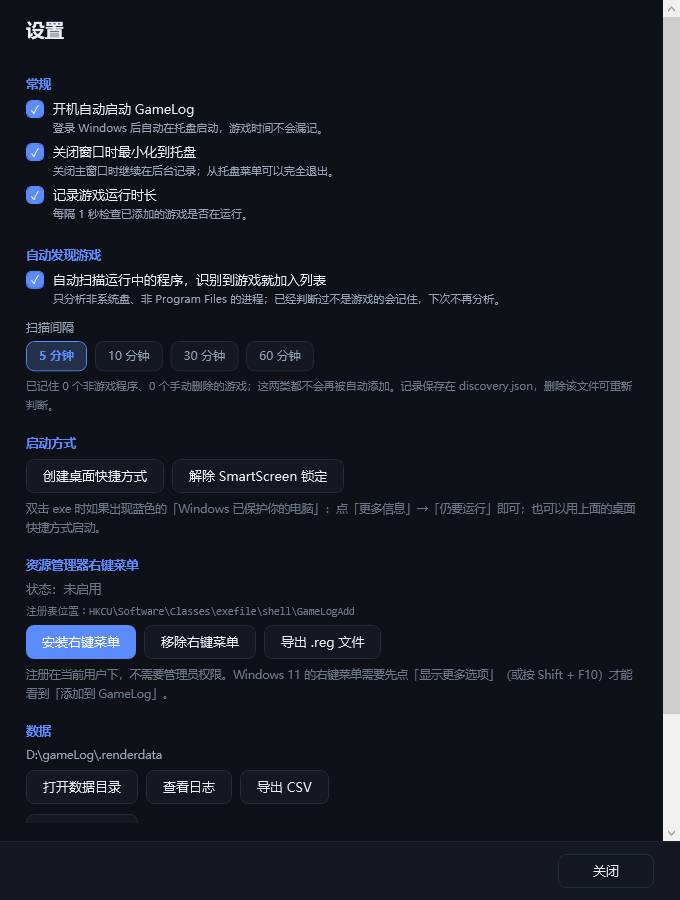
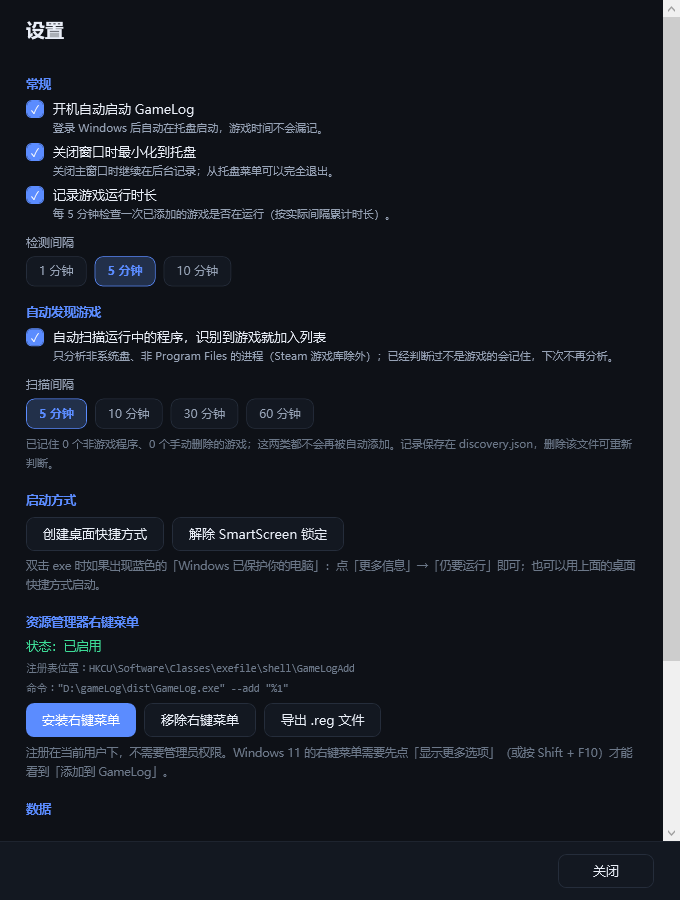
feat: check running games every 5 minutes instead of every second
- new setting MonitorSeconds (1/5/10 min, default 5); status bar shows the interval
- elapsed time still uses the real delta between checks, so no drift
- flush the partial interval on exit so quitting does not lose up to 5 minutes
- UI keeps refreshing every second on its own timer

diff --git a/src/Monitor.cs b/src/Monitor.cs
@@ -29,7 +29,40 @@ namespace GameLog
         {
             if (timer != null) return;
             lastTick = DateTime.UtcNow;
-            timer = new Timer(Tick, null, 700, 1000);
+            int seconds = IntervalSeconds;
+            // 2 秒后先跑一次，把已经在运行的游戏尽快统计进来；之后按设置的间隔
+            timer = new Timer(Tick, null, 2000, seconds * 1000);
+            Log.Info("监控已启动：每 " + seconds + " 秒检测一次");
+        }
+
+        public void Restart()
+        {
+            Stop();
+            Start();
+        }
+
+        public int IntervalSeconds
+        {
+            get
+            {
+                int s = store.Settings.MonitorSeconds;
+                if (s < 30) s = 300;
+                if (s > 3600) s = 3600;
+                return s;
+            }
+        }
+
+        public string IntervalLabel
+        {
+            get
+            {
+                int s = IntervalSeconds;
+                if (s < 60) return "每 " + s + " 秒";
+                int m = s / 60;
+                if (m < 60) return m == 1 ? "每 1 分钟" : "每 " + m + " 分钟";
+                int h = s / 3600;
+                return "每 " + h + " 小时";
+            }
         }
 
         public void Stop()
@@ -37,6 +70,8 @@ namespace GameLog
             if (timer == null) return;
             timer.Dispose();
             timer = null;
+            try { FlushPartial(); }
+            catch (Exception ex) { Log.Warn("退出前补记时长失败：" + ex.Message); }
             lock (gate) { runningIds.Clear(); sessionStart.Clear(); }
         }
 
@@ -91,7 +126,7 @@ namespace GameLog
                     return;
                 }
 
-                if (delta > 20) delta = 2; // 休眠/唤醒后避免把睡眠时间算作游戏时间
+                if (delta > IntervalSeconds * 3) delta = IntervalSeconds; // 休眠/唤醒后避免把睡眠时间算作游戏时间
 
                 HashSet<string> procs = RunningProcessNames();
                 var stillRunning = new HashSet<string>();
@@ -141,6 +176,31 @@ namespace GameLog
             catch (Exception ex)
             {
                 Log.Error("监控异常", ex);
+            }
+        }
+
+        /// <summary>退出/暂停前，把最后一次检测到现在的零头补记上，避免丢掉最多一个间隔的时长。</summary>
+        void FlushPartial()
+        {
+            double delta;
+            lock (gate) { delta = (DateTime.UtcNow - lastTick).TotalSeconds; lastTick = DateTime.UtcNow; }
+            if (delta <= 0) return;
+            if (delta > IntervalSeconds * 2) return;
+            bool any = false;
+            lock (gate)
+            {
+                if (runningIds.Count == 0) return;
+                foreach (var g in store.Snapshot())
+                {
+                    if (g == null || !runningIds.Contains(g.Id)) continue;
+                    g.AddSeconds(delta, DateTime.Now);
+                    any = true;
+                }
+            }
+            if (any)
+            {
+                store.Save();
+                Log.Info("退出前补记 " + delta.ToString("0") + " 秒");
             }
         }
 

diff --git a/src/SettingsWindow.cs b/src/SettingsWindow.cs
@@ -62,7 +62,38 @@ namespace GameLog
             var record = Ui.Check("记录游戏运行时长", store.Settings.MonitorEnabled, null);
             record.Checked += delegate { SetMonitorEnabled(true); };
             record.Unchecked += delegate { SetMonitorEnabled(false); };
-            root.Children.Add(Row(record, "每隔 1 秒检查已添加的游戏是否在运行。"));
+            root.Children.Add(Row(record, "每 5 分钟检查一次已添加的游戏是否在运行（按实际间隔累计时长）。"));
+
+            var monitorLabel = Ui.TxtBlock("检测间隔", 12, Ui.Sub);
+            monitorLabel.Margin = new Thickness(0, 6, 0, 6);
+            root.Children.Add(monitorLabel);
+
+            var monitorRow = new StackPanel();
+            monitorRow.Orientation = Orientation.Horizontal;
+            var monitorButtons = new List<Border>();
+            int[] monitorMinutes = { 1, 5, 10 };
+            foreach (int m in monitorMinutes)
+            {
+                var pill = new Border();
+                pill.CornerRadius = new CornerRadius(8);
+                pill.Padding = new Thickness(12, 6, 12, 7);
+                pill.Margin = new Thickness(0, 0, 8, 0);
+                pill.Cursor = Cursors.Hand;
+                var t = Ui.TxtBlock(m + " 分钟", 12, Ui.Sub);
+                pill.Child = t;
+                int value = m;
+                pill.MouseLeftButtonUp += delegate
+                {
+                    store.Settings.MonitorSeconds = value * 60;
+                    store.SaveSettings();
+                    app.RestartMonitor();
+                    UpdateIntervalPills(monitorButtons, monitorMinutes, store.Settings.MonitorSeconds / 60);
+                };
+                monitorButtons.Add(pill);
+                monitorRow.Children.Add(pill);
+            }
+            UpdateIntervalPills(monitorButtons, monitorMinutes, store.Settings.MonitorSeconds / 60);
+            root.Children.Add(monitorRow);
 
             root.Children.Add(SectionTitle("自动发现游戏"));
             var autoDetect = Ui.Check("自动扫描运行中的程序，识别到游戏就加入列表", store.Settings.AutoDetect, null);

diff --git a/src/MainWindow.cs b/src/MainWindow.cs
@@ -33,6 +33,7 @@ namespace GameLog
         Border toast;
         TextBlock toastText;
         DispatcherTimer toastTimer;
+        DispatcherTimer liveTimer;
         Border menuBanner;
         Border dropHint;
         readonly List<KeyValuePair<string, Border>> sortButtons = new List<KeyValuePair<string, Border>>();
@@ -74,6 +75,12 @@ namespace GameLog
             {
                 Dispatcher.BeginInvoke(new Action(UpdateLive));
             };
+
+            // 界面自己每秒刷新一次（监控本身可能是 5 分钟一次，界面不能跟着卡住）
+            liveTimer = new DispatcherTimer();
+            liveTimer.Interval = TimeSpan.FromSeconds(1);
+            liveTimer.Tick += delegate { UpdateLive(); };
+            liveTimer.Start();
 
             Loaded += delegate
             {
@@ -845,9 +852,10 @@ namespace GameLog
 
             if (statusLeft != null)
             {
+                string label = monitor != null ? monitor.IntervalLabel : "每 5 分钟";
                 statusLeft.Text = paused
                     ? "● 已暂停记录 · " + games.Count + " 款游戏已加入监控"
-                    : "● 正在记录 · 每秒检测 " + games.Count + " 款游戏的运行状态";
+                    : "● 正在记录 · " + label + "检测 " + games.Count + " 款游戏的运行状态";
                 statusLeft.Foreground = paused ? Ui.Dim : Ui.Sub;
             }
 

diff --git a/src/Models.cs b/src/Models.cs
@@ -87,6 +87,8 @@ namespace GameLog
         public int AutoDetectMaxPerRun { get; set; }
         /// <summary>主界面布局：cards（卡片）或 list（列表）。</summary>
         public string Layout { get; set; }
+        /// <summary>记录游戏时长的检测间隔（秒）。</summary>
+        public int MonitorSeconds { get; set; }
 
         public Settings()
         {
@@ -98,6 +100,7 @@ namespace GameLog
             AutoDetectMinutes = 5;
             AutoDetectMaxPerRun = 3;
             Layout = "cards";
+            MonitorSeconds = 300;
         }
     }
 

diff --git a/src/Store.cs b/src/Store.cs
@@ -86,6 +86,7 @@ namespace GameLog
                             if (s.TickMs < 1000 || s.TickMs > 30000) s.TickMs = 2000;
                             if (string.IsNullOrEmpty(s.SortMode)) s.SortMode = "recent";
                             if (string.IsNullOrEmpty(s.Layout)) s.Layout = "cards";
+                            if (s.MonitorSeconds < 30 || s.MonitorSeconds > 3600) s.MonitorSeconds = 300;
                             Settings = s;
                         }
                     }

diff --git a/src/App.cs b/src/App.cs
@@ -235,6 +235,11 @@ namespace GameLog
             if (Discovery != null) Discovery.Restart();
         }
 
+        public void RestartMonitor()
+        {
+            if (Monitor != null) Monitor.Restart();
+        }
+
         void OnGameDiscovered(object sender, GameInfo g)
         {
             if (g == null) return;

diff --git a/CHANGELOG.md b/CHANGELOG.md
@@ -10,7 +10,7 @@
 - 拖拽添加：把 exe 拖进主窗口，支持一次多个
 - 游戏识别：游民星空 / 百度 / 百度百科 / 百度结果网页多来源打分
 - 封面下载与本地缓存，识别失败可手动搜索或更换封面
-- 进程监控：累计时长、今日时长、本次运行时长，30 秒自动落盘
+- 进程监控：默认每 5 分钟检测一次（可设 1/5/10 分钟），按实际间隔累计时长、今日时长、本次运行时长，30 秒自动落盘，退出前补记零头
 - 深色界面：卡片 / 列表两种布局可切换，列表带时长进度条（以最长时长为满格）；搜索、排序、运行中标识；时长以小时显示，不足 1 小时显示「不足 1 小时」
 - 托盘常驻、开机自启（启动文件夹 + 延迟重试，副盘未就绪也能起来）、暂停记录、CSV 导出
 - 单实例：重复启动时把 exe 路径交给已运行实例

diff --git a/README.md b/README.md
@@ -158,7 +158,7 @@ build.cmd
 - 界面：WPF（纯 C# 代码构建，无 XAML 编译依赖）
 - 存储：`games.json` / `settings.json`
 - 抓取：`Baidu.cs`、`Gamersky.cs`、`WebSource.cs`、`Identifier.cs`
-- 监控：`Monitor.cs`（每秒扫描进程，30 秒自动落盘）
+- 监控：`Monitor.cs`（默认每 5 分钟检测一次，可设 1/5/10 分钟；30 秒自动落盘，退出前补记零头）
 - 右键菜单：`ShellMenu.cs`（`HKCU\Software\Classes\exefile\shell\GameLogAdd`）
 - 构建：[`.github/workflows/build.yml`](.github/workflows/build.yml)（GitHub Actions，用 Windows 自带编译器）
 
